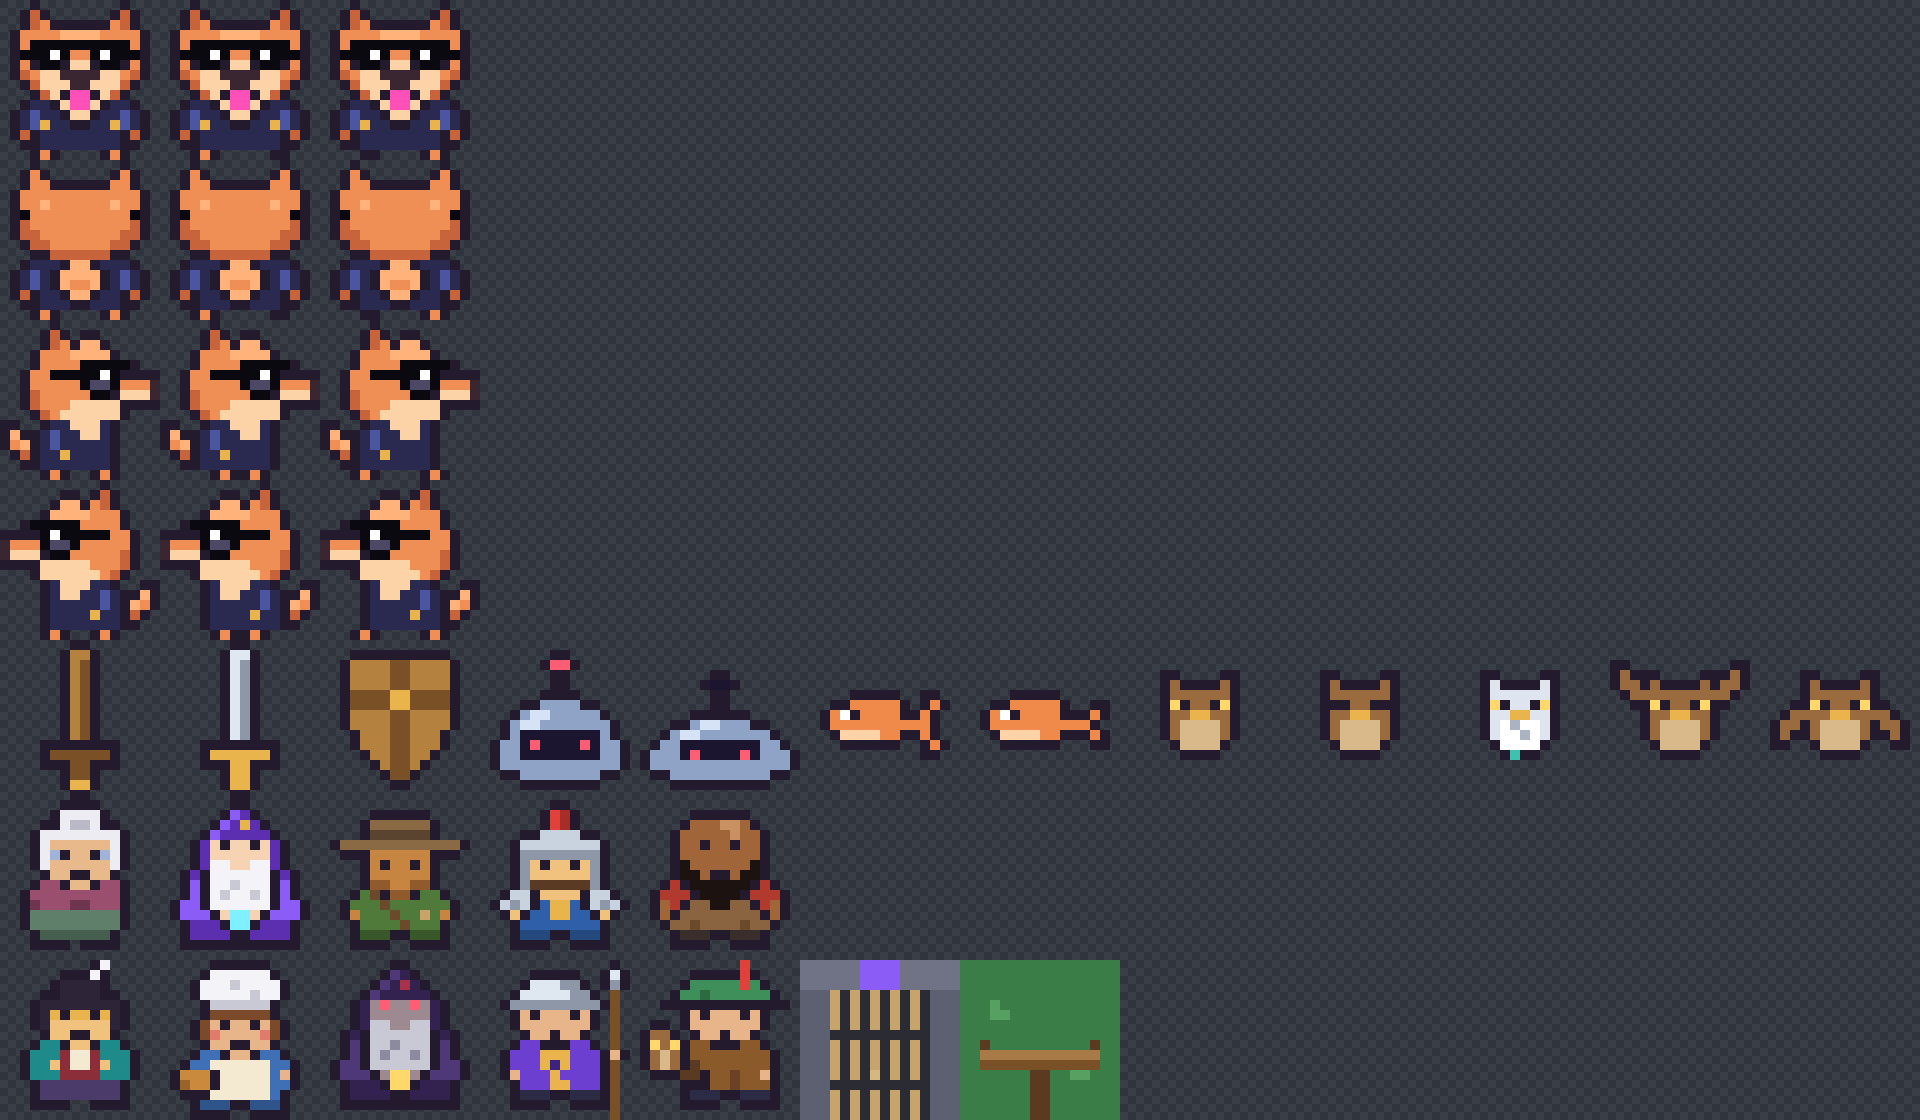
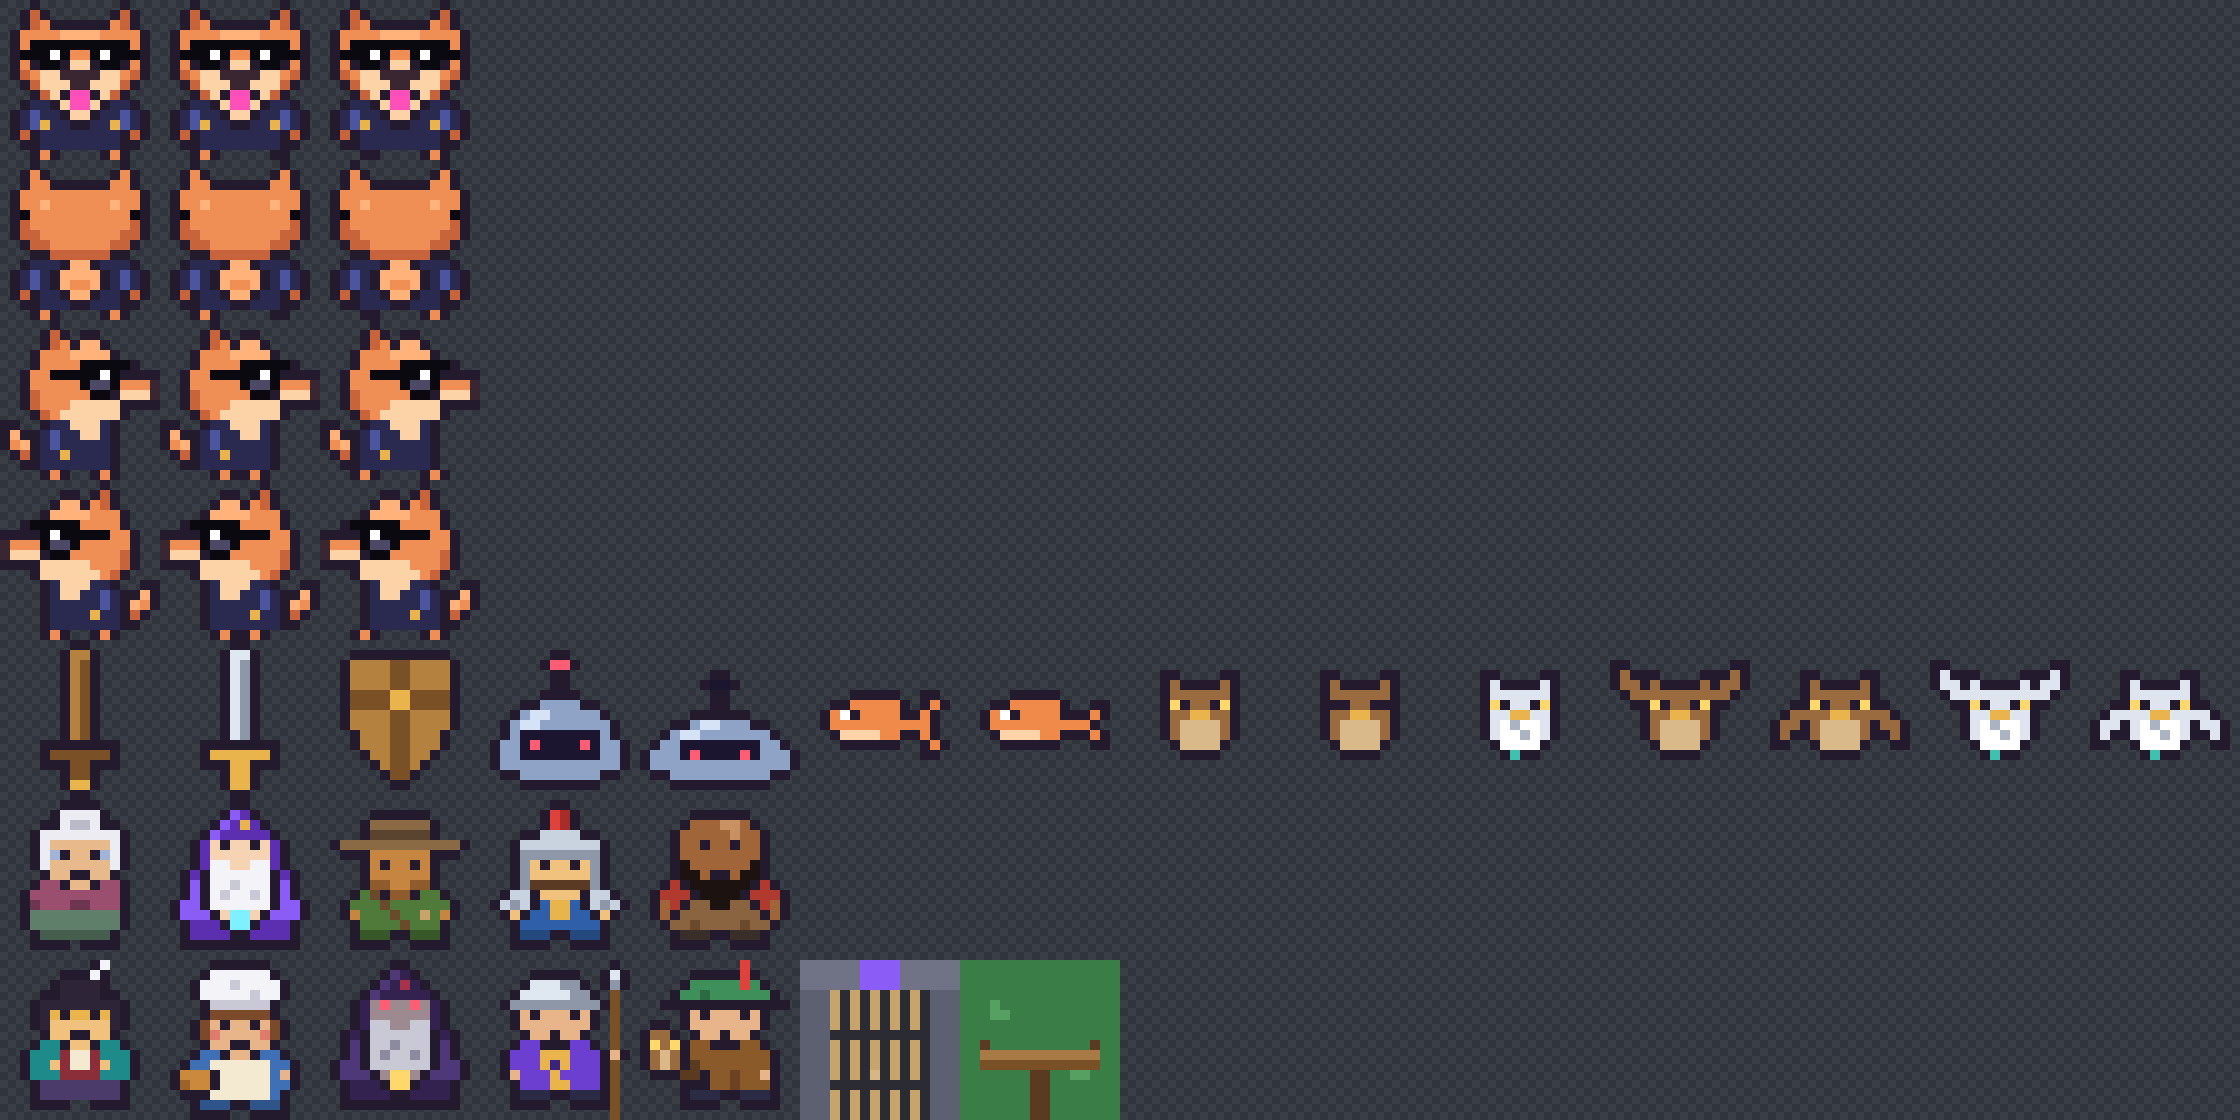
fix(game): Mochi's owl flaps its wings when it flies
Only the player's owl had wing frames, so Mochi's owl slid to Mochi with its
wings folded. It now has its own two wingbeats, in its white.

Changed region(s): [[0.0, 0.0, 1.0, 1.0]]

diff --git a/app/src/game/scene.ts b/app/src/game/scene.ts
@@ -117,7 +117,15 @@ const ITEM = {
   mochisOwl: 9,
   owlWingsUp: 10,
   owlWingsDown: 11,
+  mochisOwlWingsUp: 12,
+  mochisOwlWingsDown: 13,
 }
+
+/** Each kind of owl's frames: sitting, and with its wings up and down, which a flight swaps to make it flap. */
+const OWL_FRAMES = {
+  brown: { rest: ITEM.owl, up: ITEM.owlWingsUp, down: ITEM.owlWingsDown },
+  white: { rest: ITEM.mochisOwl, up: ITEM.mochisOwlWingsUp, down: ITEM.mochisOwlWingsDown },
+} as const
 
 /** How long the owl's eyes stay shut, and the shortest and longest it waits between blinks. */
 const OWL_BLINK = { shut: 140, every: [2200, 6000] } as const
@@ -687,17 +695,16 @@ export class KingdomScene extends Phaser.Scene {
 
     const current = () => this.flights.get(bird) === flight
     const isOwl = bird === this.owl
+    const frames = bird === this.mochisOwl ? OWL_FRAMES.white : OWL_FRAMES.brown
 
     const land = () => {
       if (!current()) return
       const end = to()
 
       bird.setPosition(end.x, end.y)
+      bird.setFrame(frames.rest)
 
-      if (isOwl) {
-        this.owlFlapping = false
-        bird.setFrame(ITEM.owl)
-      }
+      if (isOwl) this.owlFlapping = false
 
       onDone?.()
     }
@@ -732,7 +739,7 @@ export class KingdomScene extends Phaser.Scene {
           from.y + (end.y - from.y) * t - bend * lift * 2 + (beat % 2 === 0 ? 0 : 1),
         )
 
-        if (isOwl) bird.setFrame(beat % 2 === 0 ? ITEM.owlWingsUp : ITEM.owlWingsDown)
+        bird.setFrame(beat % 2 === 0 ? frames.up : frames.down)
       },
       onComplete: land,
     })

diff --git a/app/src/game/sheets.ts b/app/src/game/sheets.ts
@@ -1,7 +1,7 @@
 // Generated by art/sprites.mjs; don't edit. Each URL carries a hash of the file's contents.
 export const SHEETS = {
   dog: '/assets/dog.png?v=0be57c5f01',
-  items: '/assets/items.png?v=e06f211fdc',
+  items: '/assets/items.png?v=94a9071669',
   npcs: '/assets/npcs.png?v=6cc6f4d8f6',
   tiles: '/assets/tiles.png?v=7f01cebc24',
   splash: '/assets/splash.png?v=40d2470162',
